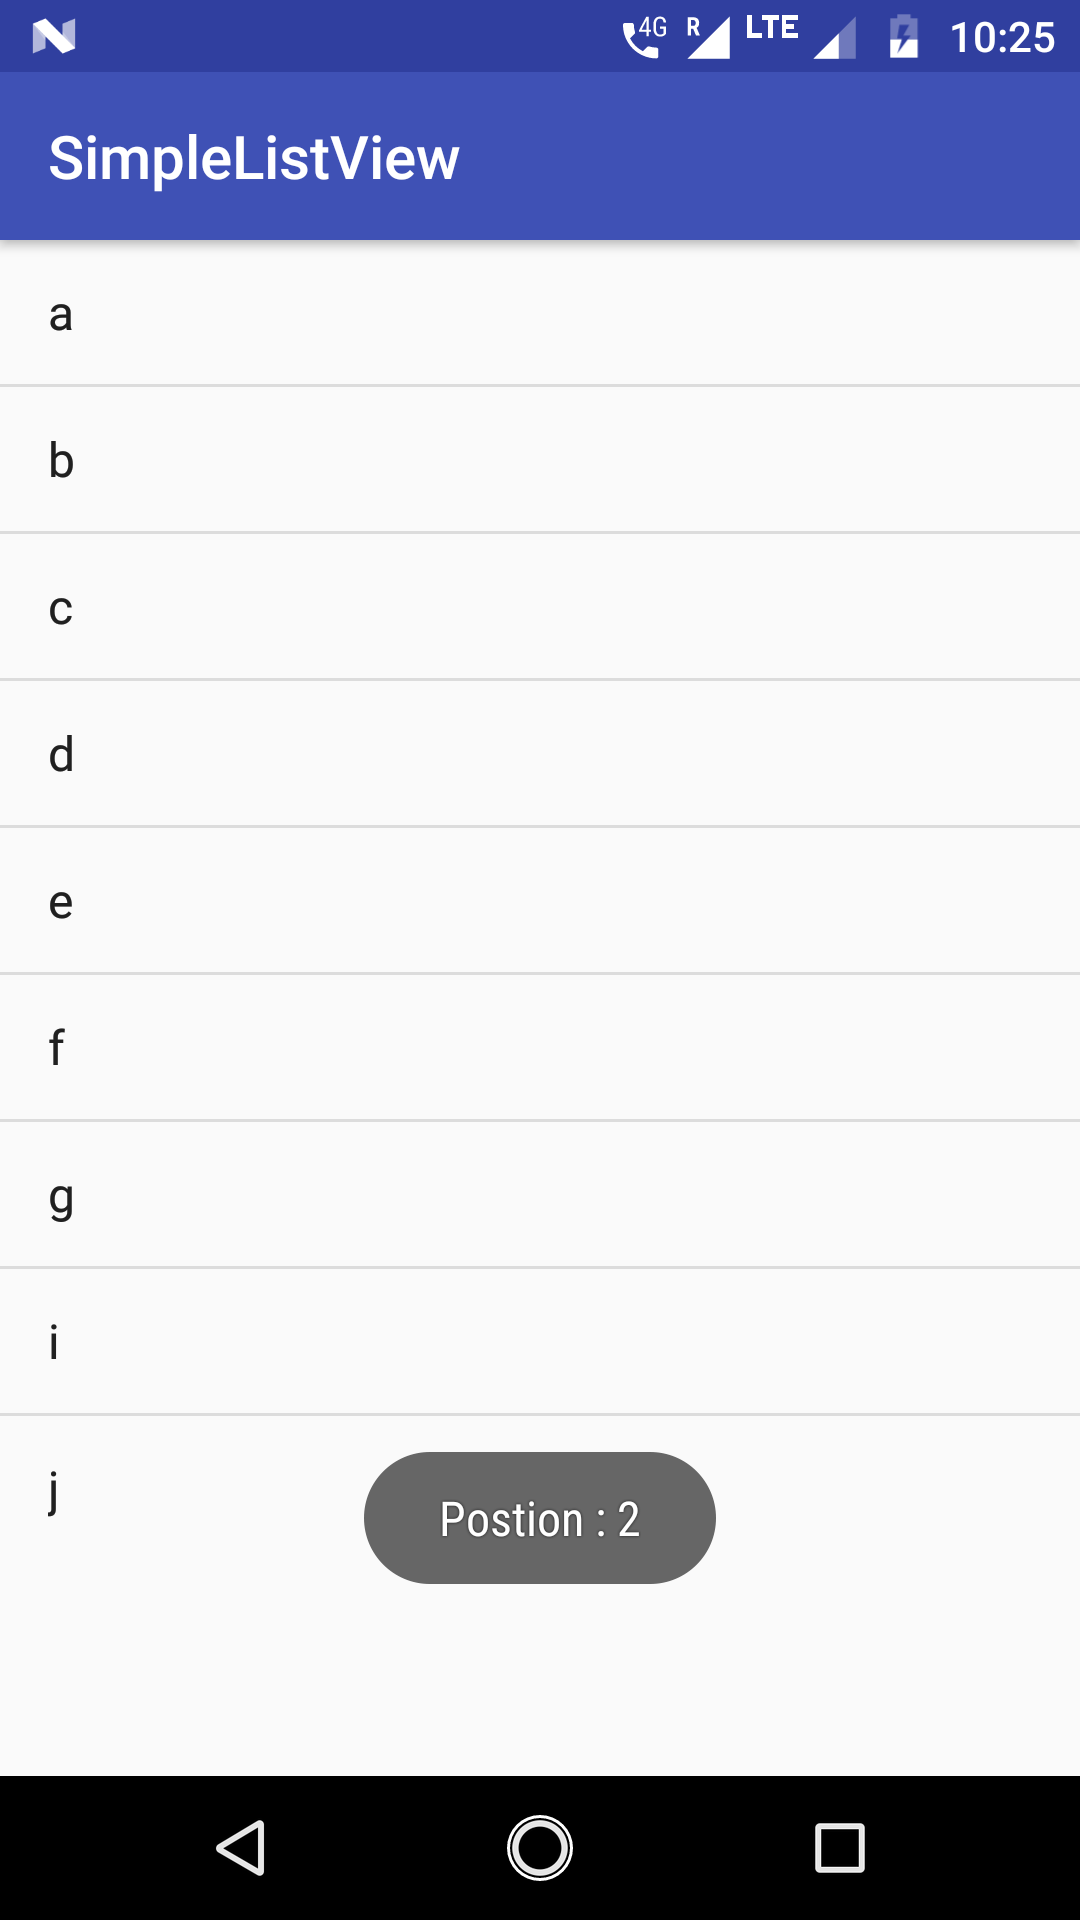
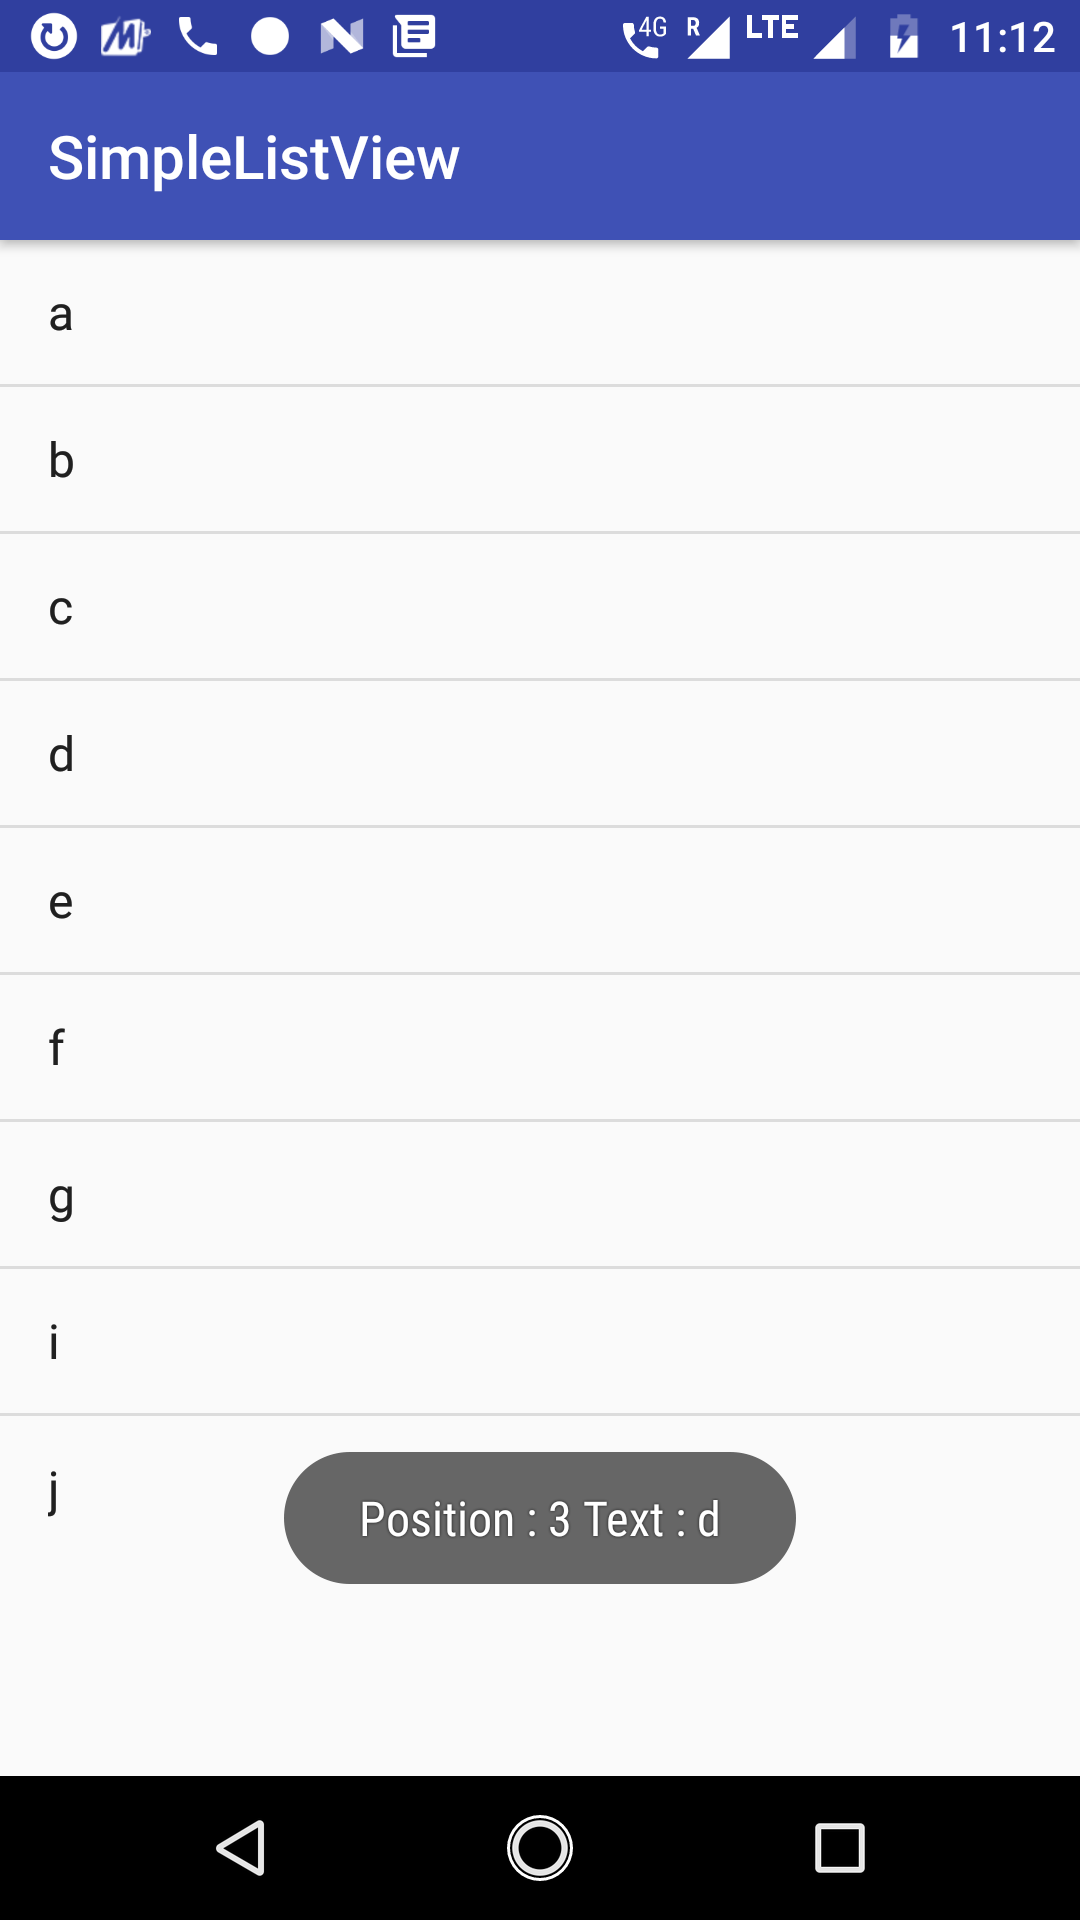
added readme

diff --git a/SimpleListView/app/src/main/java/in/codebucket/simplelistview/MainActivity.java b/SimpleListView/app/src/main/java/in/codebucket/simplelistview/MainActivity.java
@@ -6,6 +6,7 @@ import android.view.View;
 import android.widget.AdapterView;
 import android.widget.ArrayAdapter;
 import android.widget.ListView;
+import android.widget.TextView;
 import android.widget.Toast;
 
 public class MainActivity extends AppCompatActivity {
@@ -24,7 +25,10 @@ public class MainActivity extends AppCompatActivity {
         list.setOnItemClickListener(new AdapterView.OnItemClickListener() {
             @Override
             public void onItemClick(AdapterView<?> parent, View view, int position, long id) {
-                Toast.makeText(MainActivity.this, "Position : "+position, Toast.LENGTH_SHORT).show();
+
+                TextView temp=(TextView)view;
+
+                Toast.makeText(MainActivity.this, "Position : "+position+" Text : "+temp.getText(), Toast.LENGTH_SHORT).show();
             }
         });
 

diff --git a/readme.md b/readme.md
@@ -1,44 +1,44 @@
-## This repository has collection of various android apps
+## This repository has collection of various Android Apps
 
 
 
-### ActivityFullScreen:- 	
+#### ActivityFullScreen:- 	
 
-### AndroidLifeCycle:- 	
+#### AndroidLifeCycle:- 	
 Learn about Android Life Cycle 
 
-### AndroidLogs:- 	
+#### AndroidLogs:- 	
 
-### AsyncTaskDemo:- 	
+#### AsyncTaskDemo:- 	
 
-### BroadCastReceiverCustom:-
+#### BroadCastReceiverCustom:-
 
-### BroadcastReceiverDynamically:-
+#### BroadcastReceiverDynamically:-
 
-### BroadcastReceiverXml:-
+#### BroadcastReceiverXml:-
 
-### ContentProviderSimple:-
+#### ContentProviderSimple:-
 
-### FragmentCommunication:-
+#### FragmentCommunication:-
 
-### FragmentDemoJava:-
+#### FragmentDemoJava:-
 
-### FragmentDemoXml:-
+#### FragmentDemoXml:-
 
-### ServiceStartStop:-
+#### ServiceStartStop:-
 
-### ServiceUnbound:-
+#### ServiceUnbound:-
 
-### SimpleListView:-
+#### SimpleListView:-
 
-### Sqlite3level:-
+#### Sqlite3level:-
 
-### ThreadHandlerLooper:-
+#### ThreadHandlerLooper:-
 
-### ThreadSimple:-
+#### ThreadSimple:-
 
 
-### SimpleListView:- 
+#### SimpleListView:- 
 This projects shows how to display simple listView
 
 <img src="https://github.com/puneetverma24/Android/blob/master/SimpleListView/device-2018-06-22-102618.png" width="200" height="200" />
